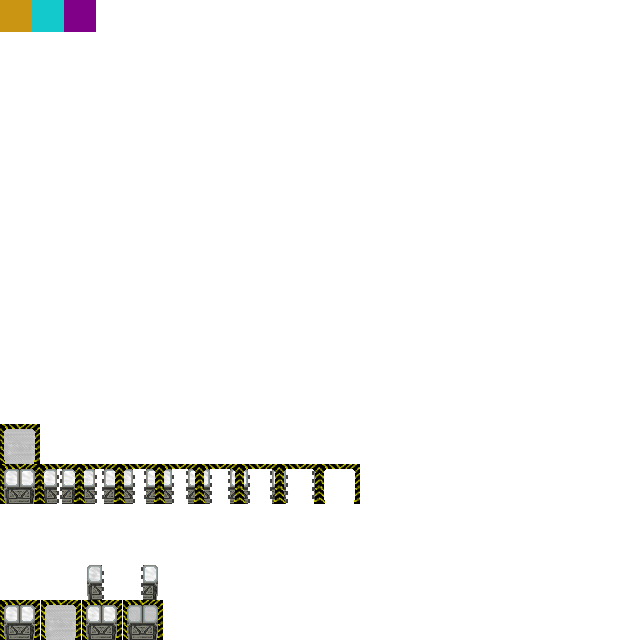
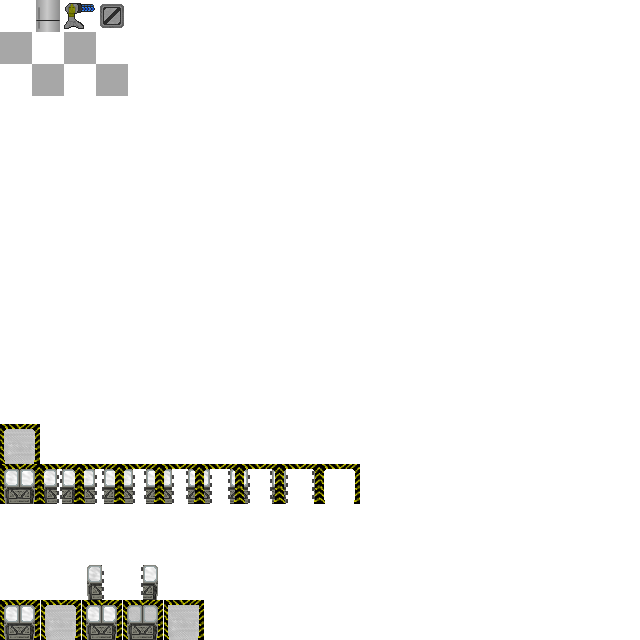
Projectile updates

Changed region(s): [[0.0, 0.0, 0.2188, 0.1562], [0.25, 0.9375, 0.3438, 1.0]]

diff --git a/projects/ld32/js/application/game.js b/projects/ld32/js/application/game.js
@@ -99,7 +99,7 @@ var projectileMaxTimeout = 60;
         
         context = canvas.getContext('2d');
 
-        player = new Player(375, 500);
+        player = new Player(275, 200);
 
         populateBackground();
         
@@ -213,7 +213,7 @@ var projectileMaxTimeout = 60;
         if (68 in keysDown || 17 in keysDown || projectileTimeout[2] > 0) {
             projectileTimeout[2] ++;
             
-            if (projectileTimeout[0] == projectileMaxTimeout - 8) {
+            if (projectileTimeout[2] == projectileMaxTimeout - 8) {
                 player.airlocks[2].openDoor();
             }
             if (projectileTimeout[2] >= projectileMaxTimeout) {
@@ -272,22 +272,25 @@ var projectileMaxTimeout = 60;
         projectiles.forEach(function(p, pIndex) {
             enemies.forEach(function(e, eIndex) {
                 // dumb 2d collision
-                if (!(p.x > e.x + 32 || p.x + 32 < e.x || p.y > e.y + 32 || p.y + 32 < e.y)) {
+                if (!(p.x + 4 > e.x + 32 || p.x + 28 < e.x || p.y + 4 > e.y + 32 || p.y + 28 < e.y)) {
                     killProjectile(pIndex);
                     killEnemy(eIndex);
                 }
             });
             
             bullets.forEach(function(b, bIndex) {
-                if (!(p.x > b.x + 32 || p.x + 32 < b.x || p.y > b.y + 32 || p.y + 32 < b.y)) {
-                    killProjectile(pIndex);
+                if (!(p.x + 4 > b.x + 6 || p.x + 28 < b.x || p.y + 4 > b.y + 6 || p.y + 28 < b.y)) {
+                    p.bulletHits --;
+                    if (p.bulletHits <= 0) {
+                        killProjectile(pIndex);
+                    }
                     killBullet(bIndex);
                 }
             });
         });
         
         bullets.forEach(function(b, bIndex) {
-            if (!(b.x > player.x + 32 || b.x + 5 < player.x || b.y > player.y + 32 || b.y + 5 < player.y)) {
+            if (!(b.x > player.x + 26 || b.x + 6 < player.x+6 || b.y > player.y + 58 || b.y + 6 < player.y+6)) {
                 killBullet(bIndex);
             }
         });
@@ -343,6 +346,10 @@ var projectileMaxTimeout = 60;
         context.fillText(projectiles.length, 10, 100);
         context.fillText(stars.length, 10, 120);
         context.fillText(bullets.length, 10, 140);
+        
+        context.fillText(player.airlocks[0].curFrame + ", " + player.airlocks[0].open, 10, 180);
+        context.fillText(player.airlocks[1].curFrame + ", " + player.airlocks[1].open, 10, 200);
+        context.fillText(player.airlocks[2].curFrame + ", " + player.airlocks[2].open, 10, 220);
         
         
         numRenders++;

diff --git a/projects/ld32/js/application/projectile.js b/projects/ld32/js/application/projectile.js
@@ -9,6 +9,7 @@ var Projectile = function(x, y) {
     this.rotationSpeed = (Math.random() * 3) + .2;
     this.rotationDirection = Math.floor((Math.random() * 2) + 1);
     this.name = "";
+    this.bulletHits = 1;
 }
 
 Projectile.prototype.setRandomDirection = function() {
@@ -89,6 +90,7 @@ var Fridge = function(x, y) {
     Projectile.call(this, x, y);
     this.name = "Fridge";
     this.sprite = "fridgeItem";
+    this.bulletHits = 5;
 }
 
 Fridge.prototype = new Projectile();
@@ -103,6 +105,15 @@ var Turret = function(x, y) {
 
 Turret.prototype = new Projectile();
 Turret.prototype.constructor = Turret;
+
+var Crate = function(x, y) {
+    Projectile.call(this, x, y);
+    this.name = "Crate";
+    this.sprite = "crateItem";
+}
+
+Crate.prototype = new Projectile();
+Crate.prototype.constructor = Crate;
 
 function killProjectile(index) {
     if (index >= 0 && index < projectiles.length) {

diff --git a/projects/ld32/js/application/airlock.js b/projects/ld32/js/application/airlock.js
@@ -13,10 +13,12 @@ Airlock.prototype.getNextProjectile = function() {
     var projectile;
     var chance = Math.random() * 100;
     
-    if (chance < 33) {
+    if (chance < 25) {
         projectile = new Needles(this.x+3, this.y+6);
-    } else if (chance < 66) {
+    } else if (chance < 50) {
         projectile = new Fridge(this.x+3, this.y+6);
+    } else if (chance < 75) {
+        projectile = new Crate(this.x+3, this.y+6);
     } else {
         projectile = new Turret(this.x+3, this.y+6);
     }

diff --git a/projects/ld32/js/application/sprites.js b/projects/ld32/js/application/sprites.js
@@ -116,6 +116,8 @@ spriteMapper.addImage('bullet3', 'enemies', 128, 64, 6, 6);
 spriteMapper.addImage('needlesItem', 'projectiles', 0, 0);
 spriteMapper.addImage('fridgeItem', 'projectiles', 32, 0);
 spriteMapper.addImage('turretItem', 'projectiles', 64, 0);
+spriteMapper.addImage('crateItem', 'projectiles', 96, 0);
+
 
 spriteMapper.addImage('airlockempty', 'projectiles', 0, 424, 40, 40);
 spriteMapper.addImage('airlock0', 'projectiles', 0,464,40,40);
